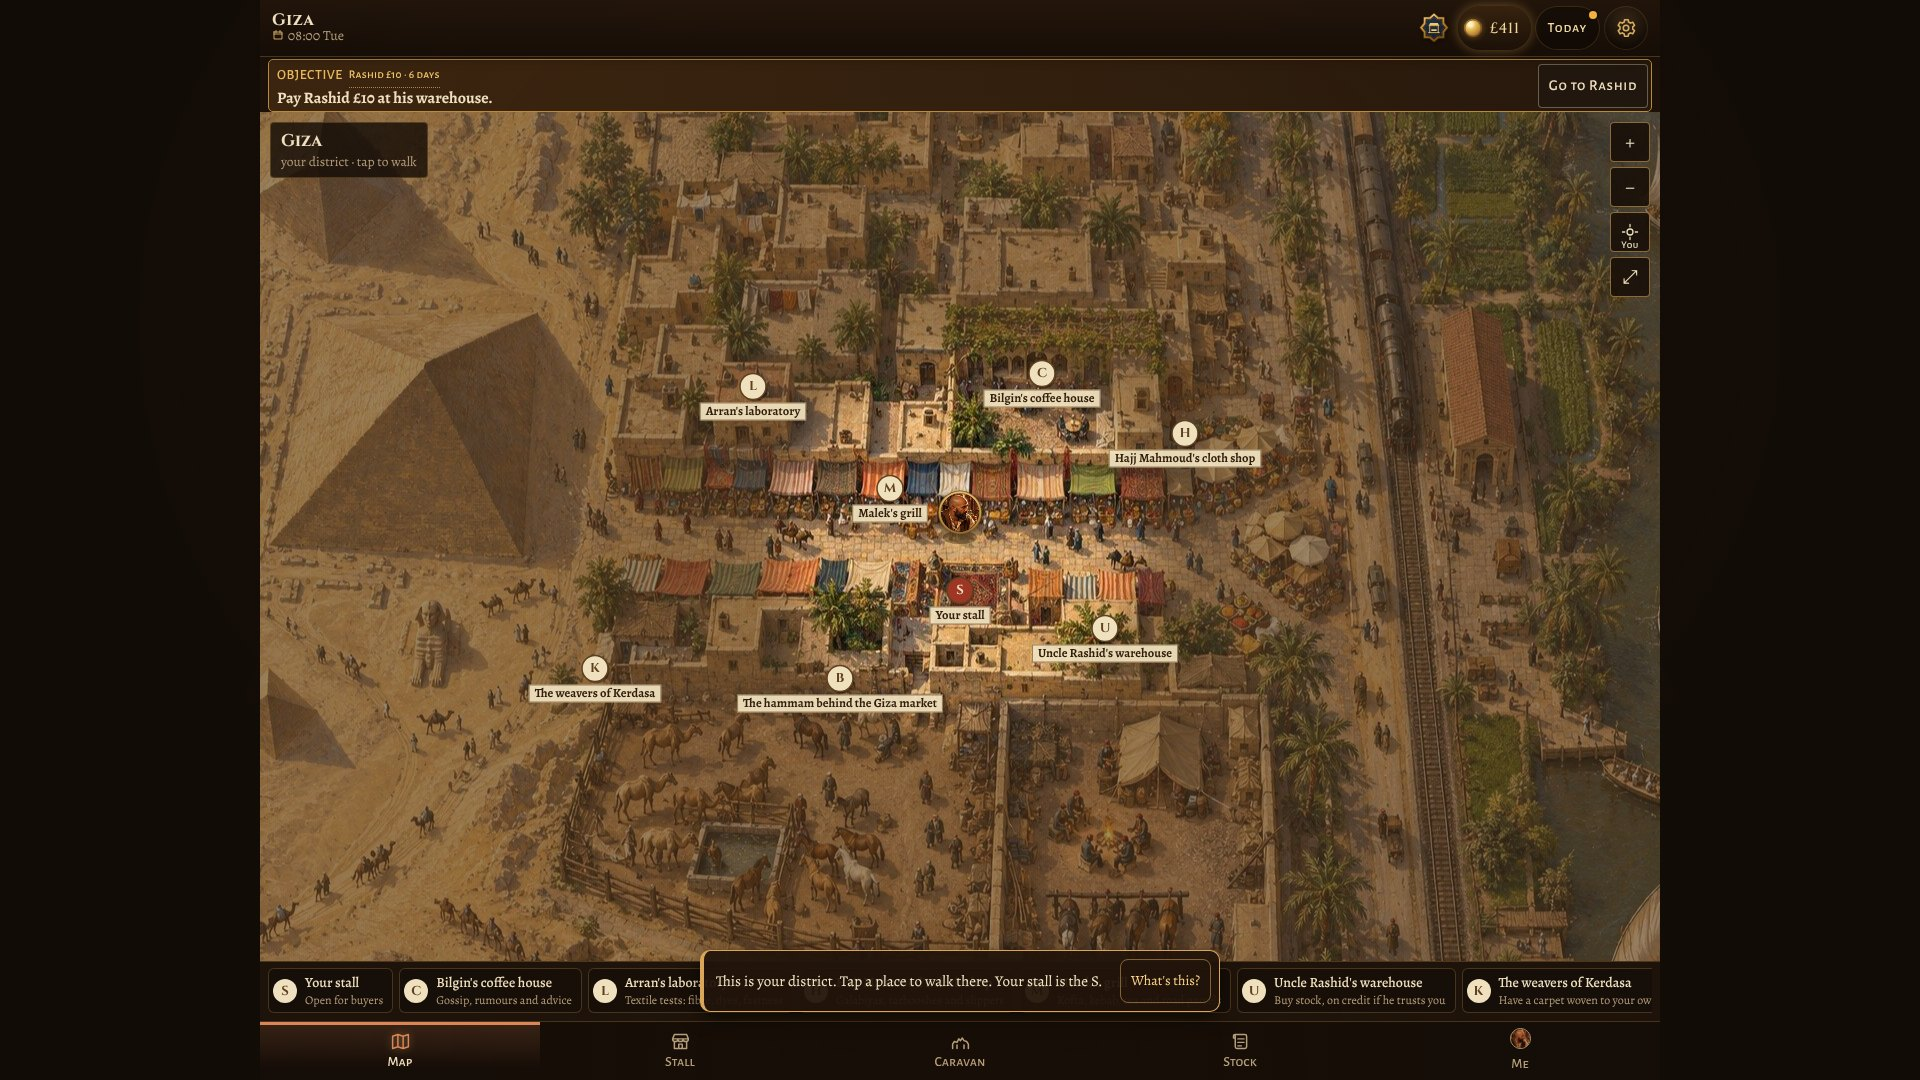
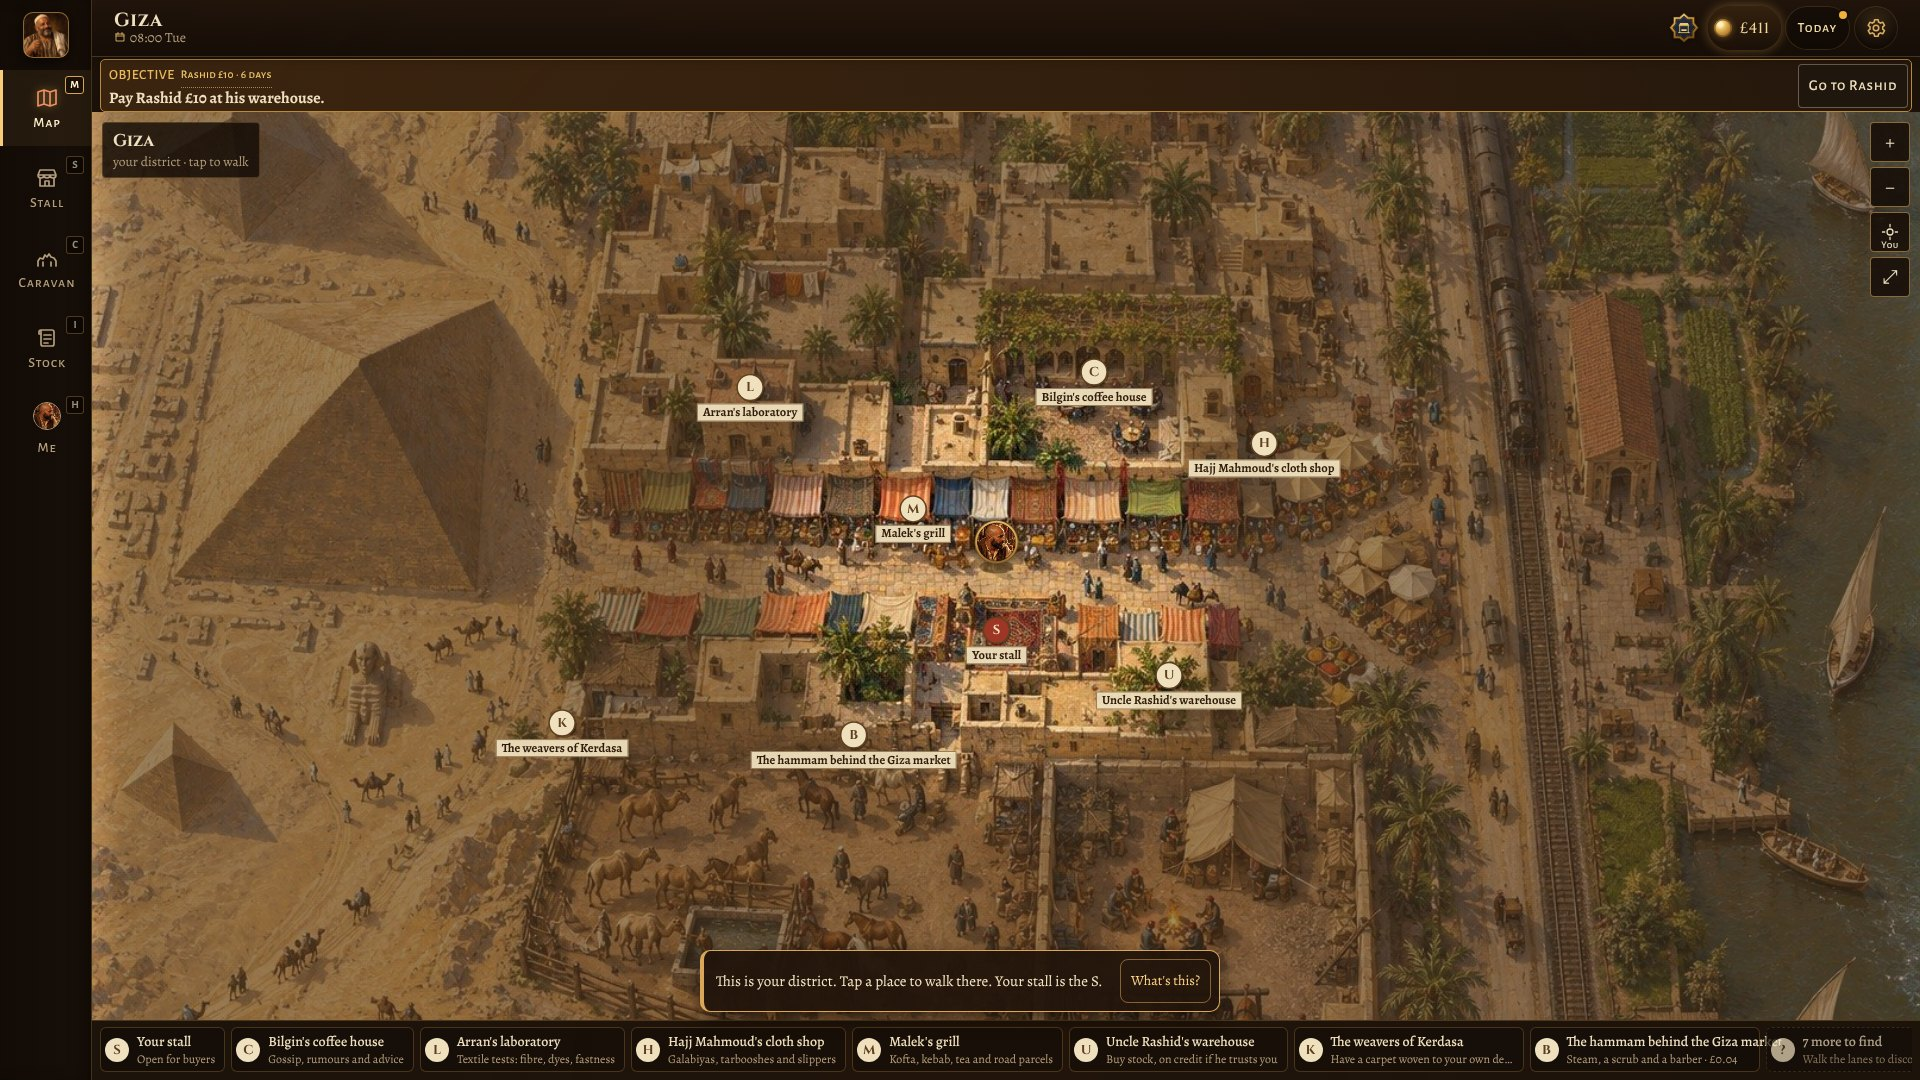
Steam screenshots re-captured at 1920x1080 with the PC layout; plan updated shot by shot
Claude-Session: https://claude.ai/code/session_01CT1BvnhzMeb2ZoPdnsTssv

diff --git a/docs/steam/screenshots-plan.md b/docs/steam/screenshots-plan.md
@@ -6,8 +6,9 @@ beside the trailer at the top of the page and in the hover preview, so they carr
 ten, in this order. They must be real gameplay (no mock-ups, no text laid over them), and nothing
 shown may be missing from the build that ships.
 
-Captured now with `tools/steam-shots.mjs` (stages each state with the tester's sheet and the tester hook,
-writes JPEGs under 1 MB): `docs/steam/shots/`. Re-run it once the PC layout lands:
+Captured with `tools/steam-shots.mjs` (stages each state with the tester's sheet and the tester hook,
+writes JPEGs under 1 MB) into `docs/steam/shots/`, with the PC layout in (commit 5e02f9d). Re-run it after
+any change to these screens:
 
 ```
 npx vite --port 5196
@@ -17,17 +18,17 @@ PORT=5196 node --import ./tests/_nohmr.mjs tools/steam-shots.mjs 03 07      # on
 
 ## The ten
 
-| Order | Shot | Screen and state | File now | Needs the wide layout? |
+| Order | Shot | Screen and state | File now | State with the PC layout |
 |---|---|---|---|---|
-| 1 | **The stall, a buyer at the counter** | Day one, Samira at the counter, her line about her receiving room, the rugs in the strip | `02-stall-buyer.jpg` | **Yes.** The scene and the panel sit in a centred phone column with dark side bars. |
-| 2 | **Haggling** | The price dial with an asking price set, a rug on the counter | `03-haggle.jpg` | **Yes**, as 1. |
-| 3 | **The road fight** | "Even odds" from the tester's sheet: the robbers' card, both sides' strength, the choices | `07-road-fight.jpg` | Mostly fine: full-width background, centred column of choices. Better with the battle field itself (press "Lead the fight" and capture mid-fight). |
-| 4 | **The world map, a journey planned** | Giza, Alexandria selected, train and walking options | `05-world-map.jpg` | **Yes.** The map is framed in a column; the wide layout should give it the full screen. Hide the objective bar for the shot. |
+| 1 | **The stall, a buyer at the counter** | Day one, Samira at the counter, her line about her receiving room, the rugs in the strip | `02-stall-buyer.jpg` | Good: the scene beside the talk so far. Drop the "Skip the lesson" chip (play past the lesson first). |
+| 2 | **Haggling** | The price dial with an asking price set, a rug on the counter | `03-haggle.jpg` | Good: the price strip under the talk. Same chip to lose. |
+| 3 | **The road fight** | "Even odds" from the tester's sheet: the robbers' card, both sides' strength, the choices | `07-road-fight.jpg` | Fine, but the choices stay a centred column. Better: press "Lead the fight" and capture the battle field mid-fight. |
+| 4 | **The world map, a journey planned** | Giza, Alexandria selected, train and walking options | `05-world-map.jpg` | Good: full-width map, trip panel at the right. Hide the objective bar for the shot. |
 | 5 | **Cairo from above** | Arriving in Cairo: the town painting and its menu | `06-town-cairo.jpg` | Fine as it is (full-width painting). |
-| 6 | **Uncle Rashid** | Rashid's first-meeting film, with its caption | `08-rashid.jpg` | Fine. It is a film still: for a gameplay shot, capture his warehouse page after the film instead (stock, his credit, your father's debt). |
-| 7 | **Giza district** | The district map with its places marked (stall, coffee house, Rashid, guard yard) | `04-giza-district.jpg` | **Yes**, as 4. |
-| 8 | **Bilgin's coffee house** | The café room from above, the tables, Bilgin | `11-coffee-house.jpg` | Partly: the room is a portrait painting with blurred side fill. Fine on Steam; better if the wide layout puts the talk panel beside it. |
-| 9 | **A story** | The Mamluk carpet story's first letter, with its three choices (tester's sheet: Stories, Begin) | `09-story.jpg` | **Yes.** Narrow column of text on a wide screen; reads small. |
+| 6 | **Uncle Rashid** | His warehouse page: today's stock, your father's debt, the sealed bale | `08-rashid.jpg` | Usable; text-heavy. His first-meeting film (one frame with its caption) is the prettier alternative. |
+| 7 | **Giza district** | The district map with its places marked (stall, coffee house, Rashid, guard yard) | `04-giza-district.jpg` | Good: full-width district painting. |
+| 8 | **Bilgin's coffee house** | The café room from above, the tables, Bilgin | `11-coffee-house.jpg` | The room is a portrait painting with blurred side fill: acceptable; better with Bilgin's talk open beside it. |
+| 9 | **A story** | The Mamluk carpet story's first letter, with its three choices (tester's sheet: Stories, Begin) | `09-story.jpg` | Weak: the Stories list is text on a wide dark page and reads small. Replace with the story's letter opened full size if a reader view exists, or drop it for a spare. |
 | 10 | **Persia** | Kermanshah, the first town over the Zagros (tester's sheet: Persia) | `12-persia.jpg` | Fine (full-width painting). |
 
 Spares, captured too:
